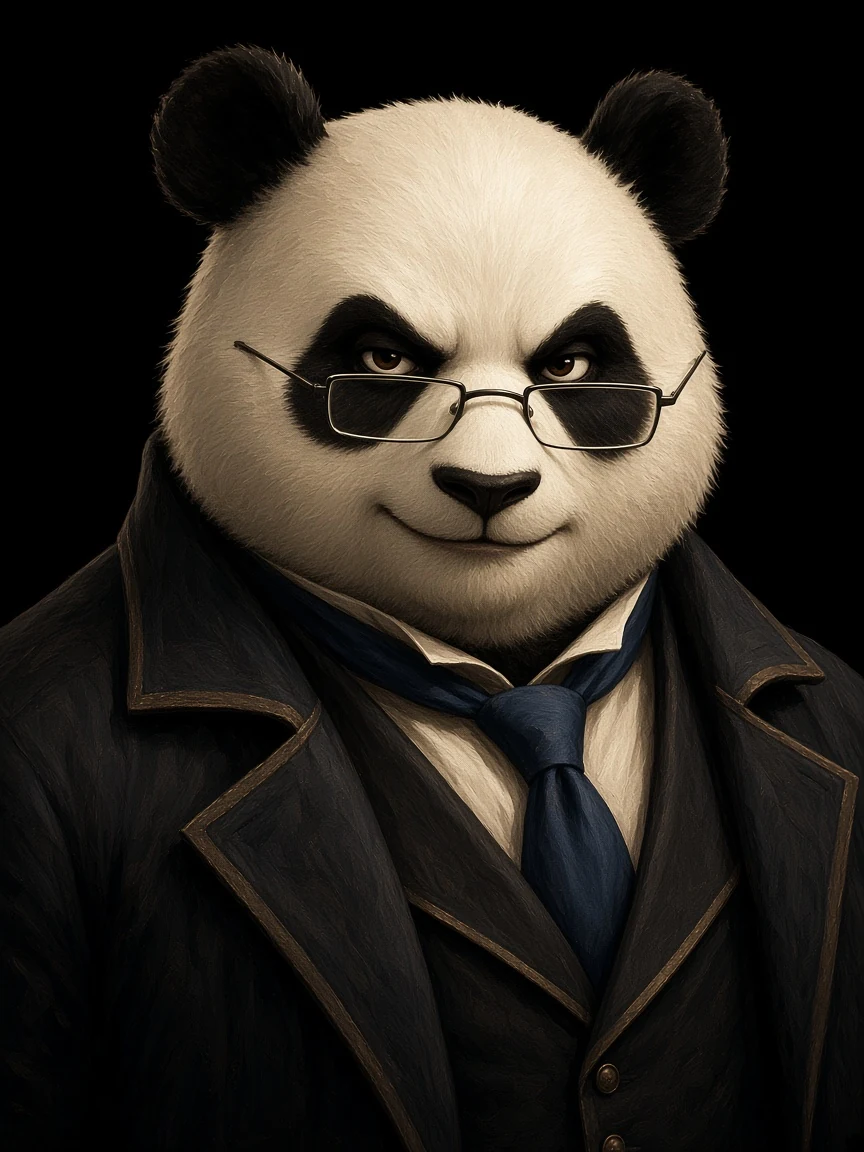
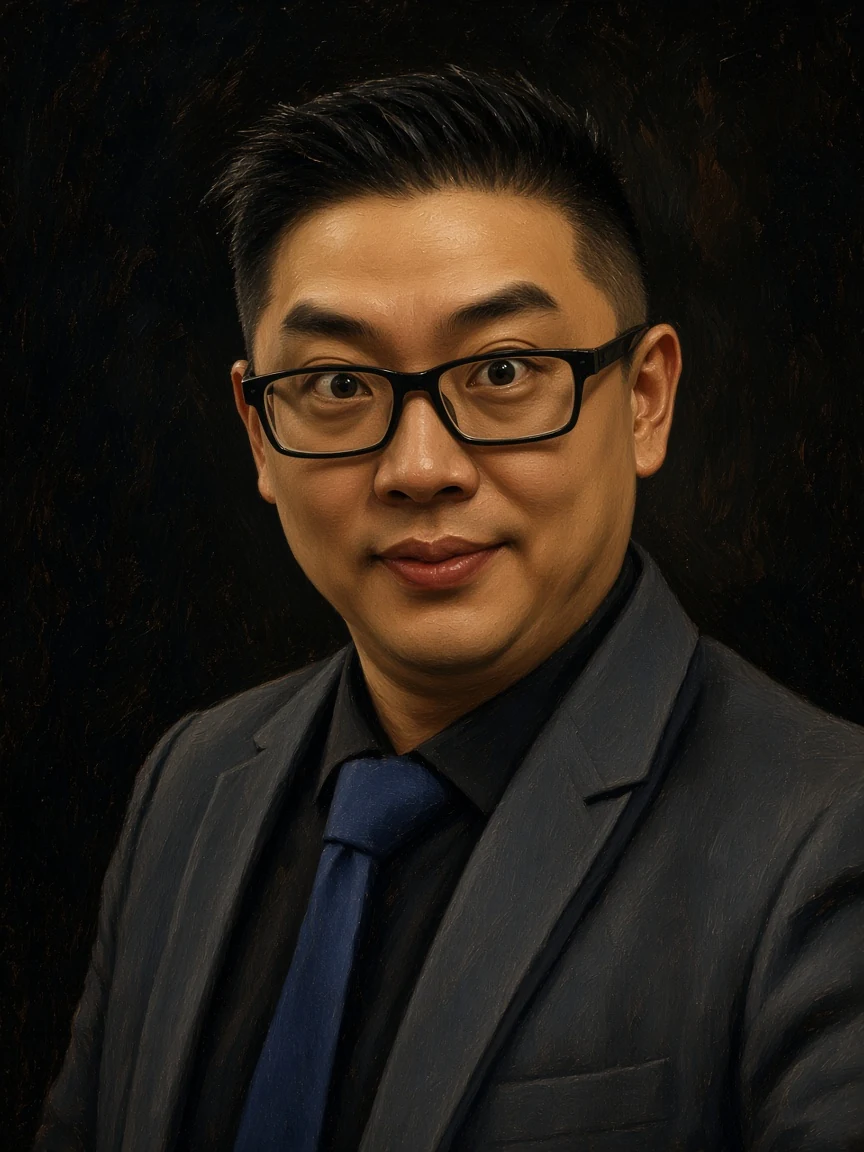
Replace harsh customer portrait with a human wearing the meme glasses.

diff --git a/frontend/src/utils/imageUrl.ts b/frontend/src/utils/imageUrl.ts
@@ -26,7 +26,7 @@ export function getImageUrl(path: string | null | undefined): string | null {
   const url = `${BACKEND_HTTP_BASE}${webpPath}`
   // 顾客立绘、卡面曾被长缓存；换 query 才能立刻拿到新图
   if (/\/images\/(customer|cards)\//i.test(webpPath)) {
-    return `${url}?v=20261001e`
+    return `${url}?v=20261001f`
   }
   return url
 }
